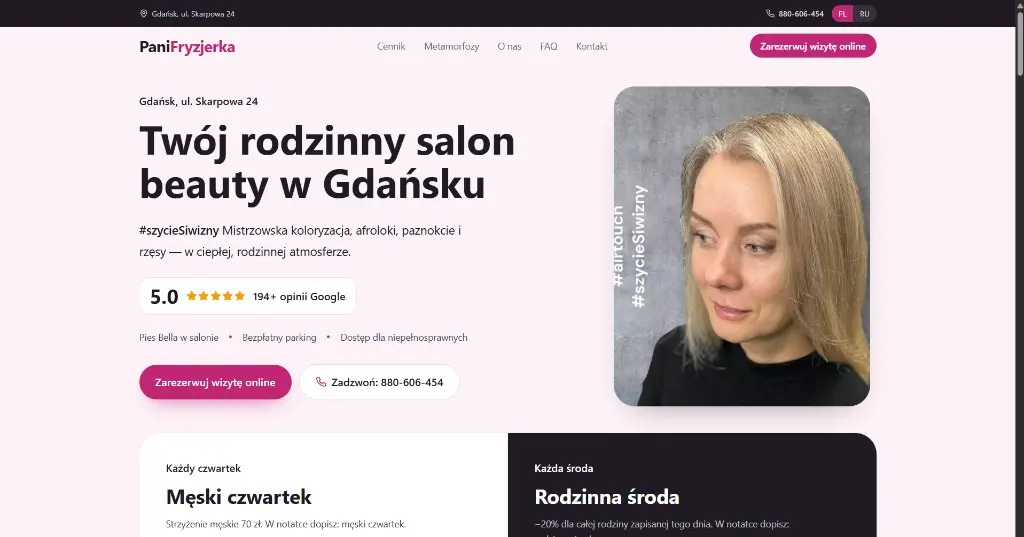
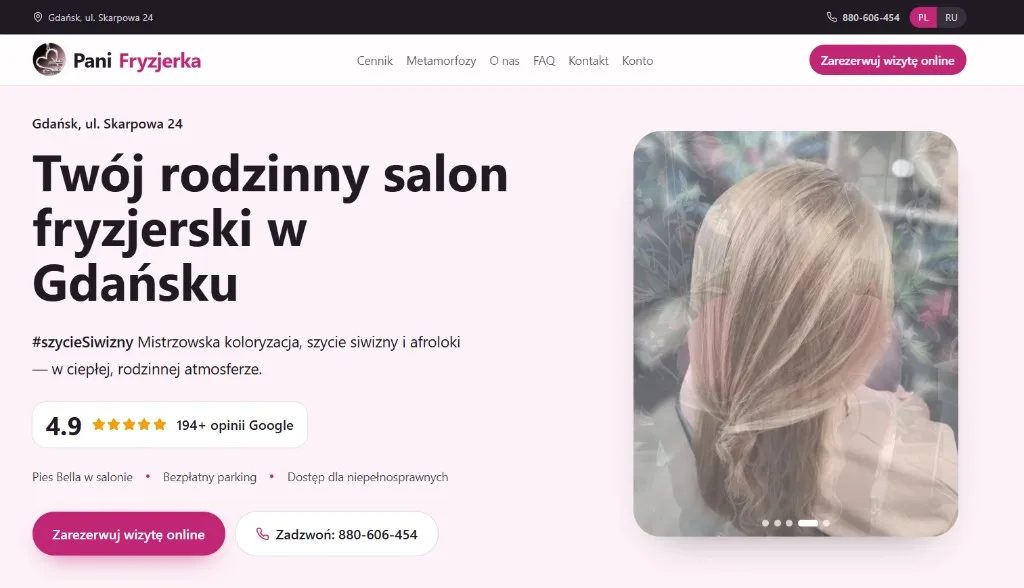
Podmień okładkę Pani Fryzjerki, usuń WhatsApp i dolicz dopłatę za ekspres.
Termin „jak najszybciej” podnosi widełki o 25% i skraca czas. Kontakt zostaje przy telefonie i e-mailu.

diff --git a/components/motion/reveal-on-view.tsx b/components/motion/reveal-on-view.tsx
@@ -14,7 +14,7 @@ export function RevealOnView() {
           observer.unobserve(entry.target);
         }
       },
-      { threshold: 0.16, rootMargin: "0px 0px -10% 0px" },
+      { threshold: 0.08, rootMargin: "0px 0px -6% 0px" },
     );
 
     function show(node: Element) {
@@ -30,7 +30,7 @@ export function RevealOnView() {
         return;
       }
       const box = node.getBoundingClientRect();
-      const inView = box.height > 0 && box.top < window.innerHeight * 0.86 && box.bottom > 32;
+      const inView = box.height > 0 && box.top < window.innerHeight * 0.92 && box.bottom > 24;
       if (inView) show(node);
       else observer.observe(node);
     }
@@ -42,37 +42,22 @@ export function RevealOnView() {
 
     const changes = new MutationObserver((records) => {
       for (const record of records) {
-        if (record.type === "attributes" && record.target instanceof HTMLElement) {
-          if (shown.has(record.target)) record.target.classList.add("is-in");
-          continue;
-        }
         for (const node of record.addedNodes) {
           if (node instanceof HTMLElement) scan(node);
         }
       }
     });
 
-    const boot = window.setTimeout(() => {
-      document.documentElement.dataset.motion = "1";
-      scan(document.body);
-      changes.observe(document.body, {
-        childList: true,
-        subtree: true,
-        attributes: true,
-        attributeFilter: ["class"],
-      });
-    }, 40);
+    document.documentElement.dataset.motion = "1";
+    scan(document.body);
+    changes.observe(document.body, { childList: true, subtree: true });
 
+    // Awaryjnie odsłoń wszystko, co mogło zostać niewidoczne.
     const safety = window.setTimeout(() => {
-      document.querySelectorAll("[data-reveal]:not(.is-in)").forEach((node) => {
-        if (!(node instanceof HTMLElement)) return;
-        const box = node.getBoundingClientRect();
-        if (box.height > 0 && box.top < window.innerHeight && box.bottom > 0) show(node);
-      });
-    }, 1000);
+      document.querySelectorAll("[data-reveal]:not(.is-in)").forEach(show);
+    }, 1200);
 
     return () => {
-      window.clearTimeout(boot);
       window.clearTimeout(safety);
       observer.disconnect();
       changes.disconnect();

diff --git a/components/sections/contact-section.tsx b/components/sections/contact-section.tsx
@@ -44,7 +44,7 @@ export function ContactSection() {
   }
 
   return (
-    <section id="kontakt" className="bg-ink py-16">
+    <section id="kontakt" className="bg-ink py-12">
       <div className="mx-auto grid max-w-6xl gap-10 px-6 lg:grid-cols-[0.8fr_1.2fr]">
         <div className="max-w-xl" {...reveal()}>
           <p className="text-sm font-medium text-amber">Kontakt</p>
@@ -52,14 +52,11 @@ export function ContactSection() {
             Napisz, czego potrzebujesz.
           </h2>
           <p className="mt-4 text-base leading-7 text-on-ink-muted">
-            Do wiadomości dołączę pakiet i dodatki z kalkulatora. Możesz też zadzwonić albo napisać na WhatsApp.
+            Do wiadomości dołączę pakiet i dodatki z kalkulatora. Możesz też zadzwonić albo napisać na e-mail.
           </p>
           <div className="mt-6 flex flex-col gap-2 text-sm">
             <a href={siteConfig.phoneHref} className="text-on-ink hover:text-amber">
               {siteConfig.phoneDisplay}
-            </a>
-            <a href={siteConfig.whatsapp} className="text-on-ink-muted hover:text-on-ink" target="_blank" rel="noreferrer">
-              WhatsApp
             </a>
             <a href={`mailto:${siteConfig.email}`} className="text-on-ink-muted hover:text-on-ink">
               {siteConfig.email}
@@ -135,7 +132,8 @@ function briefSentence(brief: ReturnType<typeof useBrief>["brief"]) {
   const type = projectTypeOptions.find((option) => option.id === brief.projectType)?.label ?? "strona";
   const extras = brief.modules.map((id) => moduleLabel(id));
   const extraText = extras.length > 0 ? ` Dodatki: ${extras.join(", ")}.` : "";
-  return `Chodzi o: ${type}. Budżet ${budgetLabels[brief.budget]}, termin: ${timelineLabels[brief.timeline]}.${extraText}`;
+  const rush = brief.timeline === "asap" ? " Ekspres jest dodatkowo płatny." : "";
+  return `Chodzi o: ${type}. Budżet ${budgetLabels[brief.budget]}, termin: ${timelineLabels[brief.timeline]}.${extraText}${rush}`;
 }
 
 function Field({ label, error, children }: { label: string; error?: string; children: ReactNode }) {

diff --git a/lib/estimate.ts b/lib/estimate.ts
@@ -1,5 +1,9 @@
-import { addOnById, addOnPrice, packageById } from "@/lib/estimator-data";
+import { addOnById, addOnPrice, expressRate, packageById } from "@/lib/estimator-data";
 import type { EstimateInput, EstimateResult } from "@/types/inquiry";
+
+function roundTo50(value: number) {
+  return Math.round(value / 50) * 50;
+}
 
 export function buildEstimate(input: EstimateInput): EstimateResult {
   const base = packageById(input.projectType);
@@ -7,14 +11,35 @@ export function buildEstimate(input: EstimateInput): EstimateResult {
   const selected = input.modules.filter((id) => allowed.has(id)).map((id) => addOnById(id));
   const extraCost = selected.reduce((sum, item) => sum + addOnPrice(item, base.id), 0);
   const extraDays = selected.reduce((sum, item) => sum + item.days, 0);
+  let costMin = base.priceMin + extraCost;
+  let costMax = base.priceMax + extraCost;
+  let daysMin = base.daysMin + extraDays;
+  let daysMax = base.daysMax + extraDays;
+  const rush = input.timeline === "asap";
+  let rushFeeMin = 0;
+  let rushFeeMax = 0;
+
+  if (rush) {
+    const rushedMin = roundTo50(costMin * (1 + expressRate));
+    const rushedMax = roundTo50(costMax * (1 + expressRate));
+    rushFeeMin = rushedMin - costMin;
+    rushFeeMax = rushedMax - costMax;
+    costMin = rushedMin;
+    costMax = rushedMax;
+    daysMin = Math.max(4, Math.round(daysMin * 0.6));
+    daysMax = Math.max(daysMin + 1, Math.round(daysMax * 0.65));
+  }
 
   return {
-    daysMin: base.daysMin + extraDays,
-    daysMax: base.daysMax + extraDays,
-    costMin: base.priceMin + extraCost,
-    costMax: base.priceMax + extraCost,
+    daysMin,
+    daysMax,
+    costMin,
+    costMax,
     label: base.name,
     included: base.included,
     stack: selected.map((item) => item.name),
+    rush,
+    rushFeeMin,
+    rushFeeMax,
   };
 }

diff --git a/components/estimate/estimator-summary.tsx b/components/estimate/estimator-summary.tsx
@@ -17,6 +17,11 @@ export function EstimatorSummary({ brief }: { brief: BriefSelection }) {
       <div key={figureKey} className="swap-in mt-2" aria-live="polite">
         <p className="text-3xl font-semibold tracking-[-0.03em] text-heading">{days}</p>
         <p className="mt-2 text-sm text-body">{price}</p>
+        {estimate.rush ? (
+          <p className="mt-2 text-sm text-heading">
+            W tym dopłata za ekspres: {formatPln(estimate.rushFeeMin)} – {formatPln(estimate.rushFeeMax)}
+          </p>
+        ) : null}
       </div>
       <h3 className="mt-6 text-sm font-medium text-heading">W cenie pakietu</h3>
       <ul key={estimate.included.join("|")} className="swap-in mt-3 flex flex-wrap gap-2">
@@ -37,8 +42,9 @@ export function EstimatorSummary({ brief }: { brief: BriefSelection }) {
         </div>
       ) : null}
       <p className="mt-6 text-xs leading-5 text-muted">
-        To suma pakietu i dodatków, nie ostateczna cena. Dokładną podaję po rozmowie. Maile z potwierdzeniami są w
-        cenie, bez dopłaty za SMS i bez fakturowania po stronie strony.
+        To suma pakietu, dodatków i — przy terminie „jak najszybciej” — dopłaty za ekspres. Pozostałe terminy są bez
+        dopłaty. Dokładną kwotę podaję po rozmowie. Maile z potwierdzeniami są w cenie, bez dopłaty za SMS i bez
+        fakturowania po stronie strony.
       </p>
     </aside>
   );

diff --git a/app/globals.css b/app/globals.css
@@ -94,8 +94,12 @@ input[type="range"] {
   opacity: 1;
 }
 
+/*
+ * `backwards` trzyma stan startowy tylko w delay.
+ * Bez `both`/`forwards` — po końcu albo przerwaniu wraca do opacity: 1.
+ */
 .rise {
-  animation: rise 0.7s cubic-bezier(0.22, 1, 0.36, 1) both;
+  animation: rise 0.7s cubic-bezier(0.22, 1, 0.36, 1) backwards;
 }
 
 @keyframes rise {
@@ -110,7 +114,21 @@ input[type="range"] {
 }
 
 .swap-in {
-  animation: rise 0.38s cubic-bezier(0.22, 1, 0.36, 1) both;
+  animation: rise 0.38s cubic-bezier(0.22, 1, 0.36, 1) backwards;
+}
+
+/* Domyślnie widoczne. Animacja tylko gdy JS oznaczy ruch i klasę is-in. */
+html.js[data-motion="1"] [data-reveal]:not(.is-in) {
+  opacity: 0;
+  transform: translateY(12px);
+}
+
+html.js[data-motion="1"] [data-reveal].is-in {
+  opacity: 1;
+  transform: none;
+  transition:
+    opacity 0.55s cubic-bezier(0.22, 1, 0.36, 1) var(--reveal-delay, 0ms),
+    transform 0.55s cubic-bezier(0.22, 1, 0.36, 1) var(--reveal-delay, 0ms);
 }
 
 .faq-answer {
@@ -139,7 +157,9 @@ details[open] .faq-answer {
 
   .tilt-glare,
   .rise,
-  .swap-in {
+  .swap-in,
+  html.js[data-motion="1"] [data-reveal]:not(.is-in),
+  html.js[data-motion="1"] [data-reveal].is-in {
     animation: none;
     opacity: 1;
     transform: none;

diff --git a/components/sections/estimator-widget.tsx b/components/sections/estimator-widget.tsx
@@ -16,12 +16,12 @@ export function EstimatorWidget() {
   const addOns = moduleOptionsFor(brief.projectType);
 
   return (
-    <section id="wycena" className="border-t border-line py-16">
+    <section id="wycena" className="border-t border-line py-12">
       <div className="mx-auto max-w-6xl px-6">
         <SectionHeading
           eyebrow="Wycena"
           title="Powiedz, co ma powstać."
-          description="Wybierz pakiet i dodatki. Kwota to suma ceny bazowej i zaznaczonych opcji. Ten sam wybór dołączy się do wiadomości."
+          description="Wybierz pakiet, dodatki i termin. Kwota to suma ceny bazowej i zaznaczonych opcji. Termin „jak najszybciej” jest ekspresem i jest dodatkowo płatny."
         />
         <div className="mt-10 grid gap-6 lg:grid-cols-[minmax(0,1.4fr)_minmax(18rem,0.8fr)]">
           <div {...reveal()} className="rounded-2xl border border-line bg-surface p-5 sm:p-6">
@@ -73,6 +73,7 @@ export function EstimatorWidget() {
                   key={option.id}
                   pressed={brief.timeline === option.id}
                   label={option.label}
+                  detail={option.detail}
                   onClick={() => update({ timeline: option.id })}
                 />
               ))}

diff --git a/lib/resend.ts b/lib/resend.ts
@@ -31,7 +31,7 @@ export async function sendInquiryEmail(
       `Dodatki: ${modules}`,
       `W cenie: ${record.estimate.included.join(", ")}`,
       `Budżet klienta: ${budgetLabels[record.budget]}`,
-      `Termin: ${timelineLabels[record.timeline]}`,
+      `Termin: ${timelineLabels[record.timeline]}${record.estimate.rush ? ` (ekspres, dopłata ${formatPln(record.estimate.rushFeeMin)} – ${formatPln(record.estimate.rushFeeMax)})` : ""}`,
       `Szacunek: ${range}`,
       "",
       record.message,
@@ -51,7 +51,7 @@ export async function sendInquiryEmail(
     "Poniżej podsumowanie tego, co zaznaczyłeś w kalkulatorze:",
     `Pakiet: ${record.estimate.label}`,
     `Dodatki: ${modules}`,
-    `Orientacyjnie: ${range}`,
+    `Orientacyjnie: ${range}${record.estimate.rush ? ` (w tym dopłata za ekspres ${formatPln(record.estimate.rushFeeMin)} – ${formatPln(record.estimate.rushFeeMax)})` : ""}`,
     "",
     "Przejrzę to i odezwę się do Ciebie osobiście w ciągu 24h na telefon lub maila, żeby na spokojnie porozmawiać.",
     "",

diff --git a/components/sections/why-section.tsx b/components/sections/why-section.tsx
@@ -29,7 +29,7 @@ const points = [
   {
     gain: "Święty spokój w cenie",
     title: "30 dni wsparcia po starcie",
-    body: "Po uruchomieniu nie zostajesz sam. Przez pierwszy miesiąc jestem pod telefonem i na WhatsAppie. Literówka, nowy cennik albo podmiana zdjęcia — poprawiam to od ręki, bez dodatkowej opłaty.",
+    body: "Po uruchomieniu nie zostajesz sam. Przez pierwszy miesiąc jestem pod telefonem i na e-mailu. Literówka, nowy cennik albo podmiana zdjęcia — poprawiam to od ręki, bez dodatkowej opłaty.",
   },
 ];
 
@@ -42,7 +42,7 @@ const figures = [
 
 export function WhySection() {
   return (
-    <section id="zysk" className="border-y border-line bg-surface py-16">
+    <section id="zysk" className="border-y border-line bg-surface py-12">
       <div className="mx-auto max-w-6xl px-6">
         <div className="max-w-3xl" {...reveal()}>
           <p className="text-sm font-medium text-cobalt">Dlaczego warto</p>

diff --git a/lib/brief-copy.ts b/lib/brief-copy.ts
@@ -27,11 +27,11 @@ export const budgetOptions: { id: BudgetRange; label: string }[] = [
   { id: "7000-plus", label: "powyżej 7 000 zł" },
 ];
 
-export const timelineOptions: { id: Timeline; label: string }[] = [
-  { id: "asap", label: "Jak najszybciej" },
-  { id: "1-2m", label: "1–2 miesiące" },
-  { id: "quarter", label: "Ten kwartał" },
-  { id: "flexible", label: "Elastycznie" },
+export const timelineOptions: { id: Timeline; label: string; detail: string }[] = [
+  { id: "asap", label: "Jak najszybciej", detail: "Ekspres · dopłata 25%" },
+  { id: "1-2m", label: "1–2 miesiące", detail: "Termin standardowy, bez dopłaty" },
+  { id: "quarter", label: "Ten kwartał", detail: "Termin standardowy, bez dopłaty" },
+  { id: "flexible", label: "Elastycznie", detail: "Termin standardowy, bez dopłaty" },
 ];
 
 export const budgetLabels = Object.fromEntries(budgetOptions.map((item) => [item.id, item.label])) as Record<

diff --git a/components/sections/care-plans.tsx b/components/sections/care-plans.tsx
@@ -4,7 +4,7 @@ const guarantees = [
   {
     title: "30 dni gwarancji i wsparcia w cenie każdego wdrożenia",
     detail:
-      "Jestem pod telefonem lub na WhatsAppie. Jeśli cokolwiek wymaga drobnej korekty, poprawki tekstu czy upewnienia się, że wszystko gra — pomagam od ręki w ramach dobrej relacji.",
+      "Jestem pod telefonem albo na e-mailu. Jeśli cokolwiek wymaga drobnej korekty, poprawki tekstu czy upewnienia się, że wszystko gra — pomagam od ręki w ramach dobrej relacji.",
   },
   {
     title: "Darmowe utrzymanie w chmurze",
@@ -38,7 +38,7 @@ const plans = [
 
 export function CarePlans() {
   return (
-    <section id="opieka" className="bg-obsidian py-16">
+    <section id="opieka" className="bg-obsidian py-12">
       <div className="mx-auto max-w-6xl px-6">
         <div {...reveal()}>
           <p className="text-sm font-medium text-cobalt">Po starcie</p>

diff --git a/components/sections/hero.tsx b/components/sections/hero.tsx
@@ -17,7 +17,7 @@ const proof = [
 
 export function Hero() {
   return (
-    <section className="relative">
+    <section className="relative z-10">
       <div className="relative mx-auto max-w-6xl px-6 pb-8 pt-16 sm:pt-24">
         <p className="rise text-sm font-medium text-amber">Przyjmuję projekty na bieżący miesiąc</p>
         <h1
@@ -33,7 +33,7 @@ export function Hero() {
         </p>
         <div className="rise mt-10 flex flex-col gap-3 sm:flex-row" style={{ animationDelay: "240ms" }}>
           <Button asChild size="lg">
-            <Link href="/wycena">Wyceń swój projekt</Link>
+            <Link href="/#wycena">Wyceń swój projekt</Link>
           </Button>
           <Button
             asChild

diff --git a/components/layout/command-menu.tsx b/components/layout/command-menu.tsx
@@ -148,16 +148,6 @@ function CommandMenu() {
               >
                 Zadzwoń: {siteConfig.phoneDisplay}
               </Command.Item>
-              <Command.Item
-                value="whatsapp"
-                onSelect={() => {
-                  setOpen(false);
-                  window.open(siteConfig.whatsapp, "_blank", "noopener,noreferrer");
-                }}
-                className="mt-1 cursor-pointer rounded-lg px-3 py-2 text-sm text-body data-[selected=true]:bg-surface-hover data-[selected=true]:text-heading"
-              >
-                Napisz na WhatsApp
-              </Command.Item>
             </Command.Group>
           </Command.List>
         </Command>
